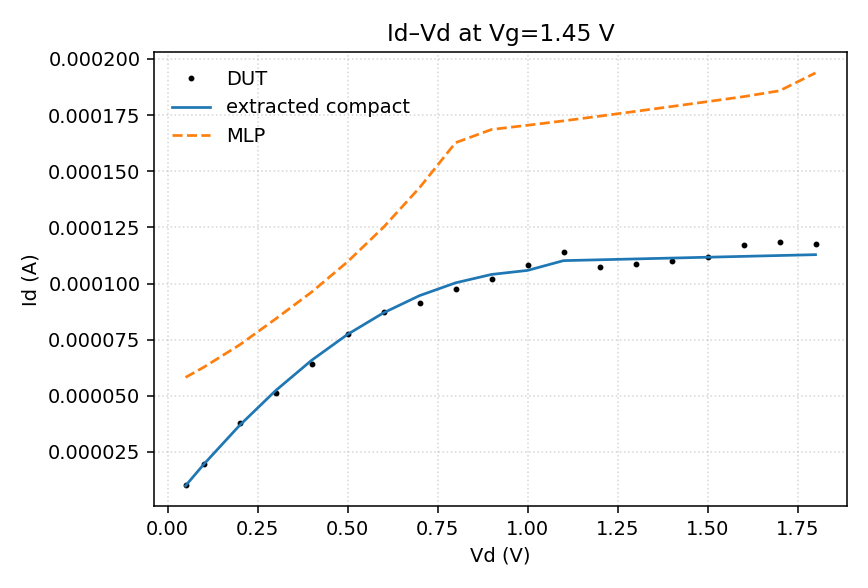
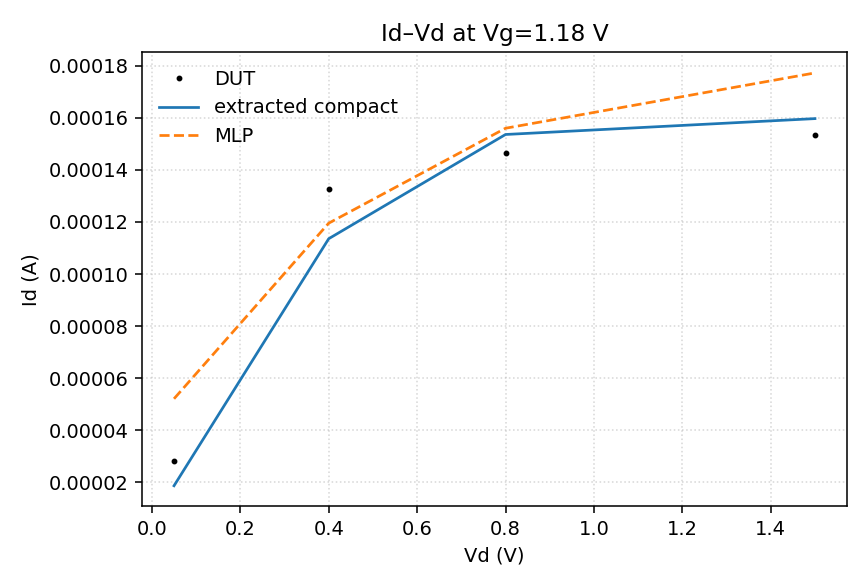
Fit Sentaurus GettingStarted SOI_IdVg tutorial I-V without treating synthetic Vth as ground truth.

diff --git a/src/fit.py b/src/fit.py
@@ -74,11 +74,16 @@ def main() -> int:
     card = ROOT / "models" / "nmos_extracted.inc"
     write_card(card, extracted)
 
-    vth_err = abs(extracted.vth - TRUE.vth)
+    synthetic = args.csv.name == "synthetic.csv"
+    vth_err = abs(extracted.vth - TRUE.vth) if synthetic else None
     payload = {
         "source": str(args.csv.name),
-        "dut": "ekv-like generator + 3% log noise (not wafer, not foundry)",
-        "vth_true": TRUE.vth,
+        "dut": (
+            "ekv-like generator + 3% log noise (not wafer, not foundry)"
+            if synthetic
+            else "Sentaurus GettingStarted SOI_IdVg tutorial I-V (Lg=0.2 um SOI nMOS; not wafer, not foundry PDK)"
+        ),
+        "vth_true": TRUE.vth if synthetic else None,
         "vth_hat": extracted.vth,
         "vth_err": vth_err,
         "ss_mVdec": extracted.ss_mVdec,
@@ -101,9 +106,17 @@ def main() -> int:
     print(json.dumps(payload, indent=2))
 
     ok = True
-    if vth_err >= VTH_ERR_MAX:
+    if synthetic and vth_err is not None and vth_err >= VTH_ERR_MAX:
         print(f"FIT FAIL vth_err={vth_err}")
         ok = False
+    if not synthetic:
+        ss = payload["ss_mVdec"]
+        if not (ss == ss and 40.0 < ss < 200.0):
+            print(f"FIT FAIL ss_mVdec={ss}")
+            ok = False
+        if not (0.05 < extracted.vth < 1.2):
+            print(f"FIT FAIL vth_hat={extracted.vth}")
+            ok = False
     if payload["log_rmse_mlp_in"] >= LOG_RMSE_IN_MAX:
         print(f"FIT FAIL log_rmse_mlp_in={payload['log_rmse_mlp_in']}")
         ok = False

diff --git a/scripts/leak_check.py b/scripts/leak_check.py
@@ -7,7 +7,7 @@ import sys
 
 ALLOW = re.compile(
     r"^(README\.md|LICENSE|SPEC\.md|Makefile|requirements\.txt|\.gitignore|"
-    r"src/.*|data/synthetic\.csv|reports/\.gitkeep|"
+    r"src/.*|data/synthetic\.csv|data/tcad_tutorial\.csv|reports/\.gitkeep|"
     r"scripts/leak_check\.py|\.github/workflows/.*\.yml|"
     r"docs/.*\.md|figs/.*\.png|models/.*\.inc)$"
 )

diff --git a/README.md b/README.md
@@ -2,8 +2,10 @@
 
 End-to-end **MOSFET compact-model extraction + tiny MLP surrogate**.
 
-The DUT is an EKV-like teaching model (subthreshold + square-law) with 3% log-domain noise.
-It is **not** wafer data and **not** a foundry PDK. The extractor does not read the hidden parameters.
+Two DUTs, same extractor (the extractor never reads hidden parameters):
+
+1. Default `make all` synthetic path: EKV-like teaching model (subthreshold + square-law) + 3% log-domain noise. **Not** wafer data.
+2. `data/tcad_tutorial.csv`: I–V exported from the Synopsys Sentaurus **GettingStarted** example `sdevice/SOI_IdVg` (Lg = 0.2 µm SOI nMOS, body tied). **Not** a foundry PDK and **not** silicon-on-wafer measurement. Lab decks / `.plt` stay off git.
 
 ```
 I–V family  →  extract Vth / SS / k / λ  →  compact card
@@ -11,6 +13,8 @@ I–V family  →  extract Vth / SS / k / λ  →  compact card
             →  hold out Vg>1.2 V (must get worse)
             →  Id–Vg / Id–Vd / error map
 ```
+
+`make all` runs the synthetic gates first, then refits the Sentaurus tutorial CSV so the committed figures are the tutorial device.
 
 ## Figures
 
@@ -29,13 +33,14 @@ pip install -r requirements.txt
 make all
 ```
 
-Expect `FIT: PASS`. Meaning of the gates:
+Expect `FIT: PASS` twice (synthetic, then tutorial CSV). Meaning of the gates:
 
-| Gate | Meaning |
-|------|---------|
-| `vth_err < 0.08` | √Id intercept recovered threshold |
-| `log_rmse_mlp_in < 0.45` | surrogate is usable **inside** the train box |
-| `log_rmse_mlp_extra > in` | the network is **not** a physical law |
+| Gate | Synthetic DUT | Sentaurus tutorial CSV |
+|------|---------------|------------------------|
+| `vth_err < 0.08` | √Id intercept vs hidden `TRUE.vth` | **not used** (no hidden truth) |
+| `40 < SS < 200 mV/dec` | n/a | subthreshold slope sanity |
+| `log_rmse_mlp_in < 0.45` | surrogate usable **inside** the train box | same |
+| `log_rmse_mlp_extra > in` | the network is **not** a physical law | same |
 
 `--check-physics --vth 1.2` must fail (device off).
 
@@ -44,10 +49,11 @@ Expect `FIT: PASS`. Meaning of the gates:
 ```
 • Built an end-to-end MOSFET I–V compact-model flow: extract Vth/SS/k/λ from
   Id–Vg/Id–Vd families, emit a SPICE-like card, and train a tiny MLP surrogate.
-• Validated extraction to <80 mV Vth error on a noisy teaching DUT; showed the
-  MLP error rising outside the train bias window (no physics extrapolation).
-• Published scripts, figures, and the extracted card at
-  github.com/lhysilicon/device-ai-ivfit (no PDK, no foundry models).
+• Fitted a Sentaurus GettingStarted SOI_IdVg tutorial device (not foundry PDK);
+  also validated extraction to <80 mV Vth error on a noisy teaching DUT.
+• Showed MLP error rising outside the train bias window (no physics extrapolation).
+• Published scripts, figures, the tutorial I–V CSV, and the extracted card at
+  github.com/lhysilicon/device-ai-ivfit (no PDK, no foundry models, no .plt).
 ```
 
 Do **not** replace those lines with “fitted foundry silicon” or a BSIM/PDK claim.
@@ -57,14 +63,15 @@ Do **not** replace those lines with “fitted foundry silicon” or a BSIM/PDK c
 | Path | What |
 |------|------|
 | `docs/method.md` | 15-minute talk |
-| `src/physics.py` | DUT (hidden params) |
+| `src/physics.py` | synthetic DUT (hidden params) |
 | `src/extract.py` | compact-model extraction |
 | `src/model.py` | MLP on log10(Id) |
 | `src/fit.py` | orchestration + gates |
 | `models/nmos_extracted.inc` | extracted card |
 | `data/synthetic.csv` | generated I–V (`vg,vd,id`) |
+| `data/tcad_tutorial.csv` | Sentaurus tutorial I–V (`vg,vd,id` only) |
 
-Later: `python3 src/fit.py --csv your.csv` with the same columns. Lab decks stay off git.
+`python3 src/fit.py --csv data/tcad_tutorial.csv` uses the same three columns. Do not commit `.plt`, `.tdr`, or lab absolute paths.
 
 ## License
 

diff --git a/SPEC.md b/SPEC.md
@@ -2,16 +2,17 @@
 
 从 I–V 家族提取紧凑模型参数，并训练 MLP 作范围内替代；用高 Vg 外推证明网络不能当物理定律。
 
-DUT 默认是带亚阈的教学解析式 + 3% 对数噪声，**不是**晶圆测量，**不是** foundry PDK。
+默认 `make all` 里的合成 DUT 仍是带亚阈的教学解析式 + 3% 对数噪声。另有 `data/tcad_tutorial.csv`：Sentaurus GettingStarted `SOI_IdVg` 教程器件的 I–V（**不是**晶圆、**不是** foundry PDK）。`.plt` / deck 不进 git。
 
 ## 完成标准（可机器验证）
 
 1. `make all` 退出 0。
-2. `reports/metrics.json`：`vth_err < 0.08`；`log_rmse_mlp_in < 0.45`；`log_rmse_mlp_extra > log_rmse_mlp_in`。
-3. `figs/idvg.png` `figs/idvd.png` `figs/mlp_error.png` 每个 > 2 KB。
-4. `models/nmos_extracted.inc` 存在。
-5. `--check-physics --vth 1.2` 非零。缺 CSV 列非零。
-6. `make leak-check` 退出 0。
+2. 合成路径 `src/fit.py`（默认 CSV）：`vth_err < 0.08`；`log_rmse_mlp_in < 0.45`；`log_rmse_mlp_extra > log_rmse_mlp_in`。
+3. TCAD 路径 `src/fit.py --csv data/tcad_tutorial.csv`：不得用合成 `TRUE.vth` 当误差门；`40 < ss_mVdec < 200`；`0.05 < vth_hat < 1.2`；窗内外 MLP 误差门与图门同合成路径。
+4. `figs/idvg.png` `figs/idvd.png` `figs/mlp_error.png` 每个 > 2 KB。
+5. `models/nmos_extracted.inc` 存在。
+6. `--check-physics --vth 1.2` 非零。缺 CSV 列非零。
+7. `make leak-check` 退出 0。
 
 ## 边界
 
@@ -22,4 +23,4 @@ DUT 默认是带亚阈的教学解析式 + 3% 对数噪声，**不是**晶圆测
 ## 失败降级
 
 - 无 TCAD CSV：本仓仍是**完整提参流程**，简历必须写 “compact-model-generated DUT”。
-- 有本机 TCAD CSV：`--csv` 跑通后可写 “fitted Sentaurus tutorial I–V”，仍不得写 foundry PDK。
+- 现有 `data/tcad_tutorial.csv`：可写 “fitted Sentaurus GettingStarted SOI_IdVg tutorial I–V”，仍不得写 foundry PDK / 硅片实测。

diff --git a/docs/method.md b/docs/method.md
@@ -1,6 +1,6 @@
 # 方法（面试 15 分钟）
 
-1. **DUT 从哪来**：`src/physics.py` 亚阈指数 + 强反型平方律，再加 3% 对数噪声。提取脚本**不准**读真值。
+1. **DUT 从哪来**：默认 `src/physics.py` 亚阈指数 + 强反型平方律，再加 3% 对数噪声。升档后同一套提取吃 `data/tcad_tutorial.csv`（Sentaurus GettingStarted `SOI_IdVg` 教程器件 I–V，不是硅片、不是 PDK）。提取脚本**不准**读真值。
 2. **提参**：亚阈 SS；饱和区 √Id–Vg 截距得 Vth；强反型最小二乘得 k、λ。
 3. **MLP**：输入 (Vg,Vd)，目标 log10(Id)，只在 Vg≤1.2 V 训练。
 4. **外推**：Vg>1.2 V 必须更差——替代模型不是器件物理。
